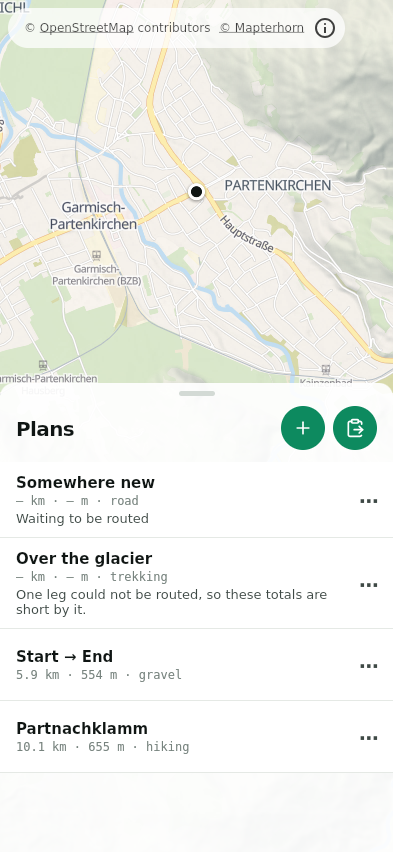
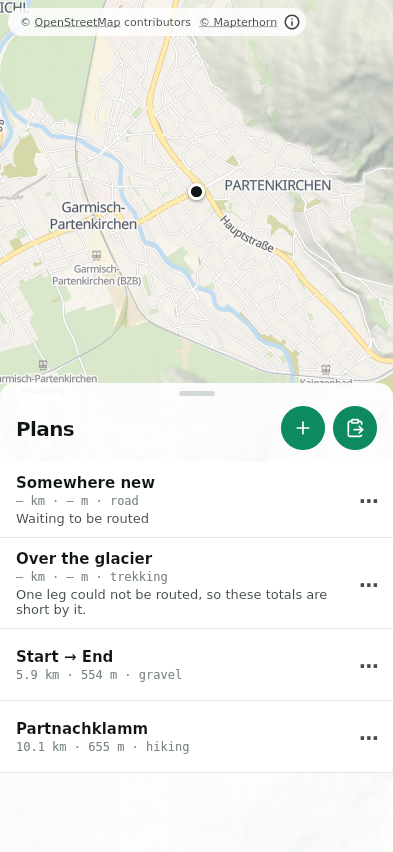
ui: the map's credit is a small pill, open once a launch, then an ⓘ
OpenStreetMap's attribution guidelines let a credit collapse on a pan or zoom, or after five seconds, as long as it
was shown at startup and an (i) still leads to it. So the first map of a launch shows it open, smaller, and every map
after that shows only the ⓘ. The controls under it move up to match.

Changed region(s): [[0.0305, 0.0, 0.8855, 0.061]]

diff --git a/app/ui/src/commonMain/kotlin/net/stho/tracks/ui/map/MapCredit.kt b/app/ui/src/commonMain/kotlin/net/stho/tracks/ui/map/MapCredit.kt
@@ -1,0 +1,102 @@
+package net.stho.tracks.ui.map
+
+import androidx.compose.animation.AnimatedVisibility
+import androidx.compose.animation.expandHorizontally
+import androidx.compose.animation.shrinkHorizontally
+import androidx.compose.foundation.Image
+import androidx.compose.foundation.background
+import androidx.compose.foundation.clickable
+import androidx.compose.foundation.layout.Box
+import androidx.compose.foundation.layout.Row
+import androidx.compose.foundation.layout.padding
+import androidx.compose.foundation.layout.size
+import androidx.compose.runtime.Composable
+import androidx.compose.runtime.LaunchedEffect
+import androidx.compose.runtime.derivedStateOf
+import androidx.compose.runtime.getValue
+import androidx.compose.runtime.mutableStateOf
+import androidx.compose.runtime.remember
+import androidx.compose.runtime.setValue
+import androidx.compose.ui.Alignment
+import androidx.compose.ui.Modifier
+import androidx.compose.ui.draw.clip
+import androidx.compose.ui.graphics.ColorFilter
+import androidx.compose.ui.input.pointer.pointerInput
+import androidx.compose.ui.semantics.Role
+import androidx.compose.ui.text.TextStyle
+import androidx.compose.ui.unit.dp
+import androidx.compose.ui.unit.sp
+import kotlin.time.Duration
+import kotlin.time.Duration.Companion.seconds
+import kotlinx.coroutines.delay
+import net.stho.tracks.ui.theme.Shapes
+import net.stho.tracks.ui.theme.Tokens
+import org.maplibre.compose.camera.CameraMoveReason
+import org.maplibre.compose.overlay.AttributionDefaults
+import org.maplibre.compose.overlay.AttributionLinks
+import org.maplibre.compose.overlay.MapOverlayScope
+import org.maplibre.compose.overlay.attributions
+
+/** Where a screen's own controls at the top of the map start: below the map's credit, open. */
+val UNDER_MAP_CREDIT = 44.dp
+
+/**
+ * The credit OpenStreetMap's licence asks for, as its attribution guidelines allow it on a small screen: open on the
+ * first map of a launch, collapsed to an ⓘ on the first pan or zoom or after [openFor], and an ⓘ on every map after.
+ * The ⓘ opens it again.
+ */
+object MapCredit {
+    /** Whether a map has shown the credit open yet, this launch. */
+    var shown = false
+
+    /** How long the first map shows it open unless the map is moved first. The screenshot scenes hold it open. */
+    var openFor: Duration = 5.seconds
+}
+
+private val CREDIT_TEXT = TextStyle(color = Tokens.ink2, fontSize = 11.sp)
+private val CREDIT_BUTTON = 28.dp
+private val CREDIT_ICON = 18.dp
+
+@Composable
+internal fun MapOverlayScope.MapCreditButton() {
+    var open by remember { mutableStateOf(!MapCredit.shown) }
+    val map = mapState
+
+    LaunchedEffect(Unit) {
+        if (!open) return@LaunchedEffect
+        MapCredit.shown = true
+        delay(MapCredit.openFor)
+        open = false
+    }
+    LaunchedEffect(map.isCameraMoving, map.cameraMoveReason) {
+        if (map.isCameraMoving && map.cameraMoveReason == CameraMoveReason.GESTURE) open = false
+    }
+
+    val mapStyle = style
+    val attributions by remember(mapStyle) { derivedStateOf { mapStyle.attributions() } }
+    if (attributions.isEmpty()) return
+
+    Row(
+        Modifier
+            .background(Tokens.glass, Shapes.pill)
+            .clip(Shapes.pill)
+            // Without this, a drag across the credit pans the map underneath it.
+            .pointerInput(Unit) {},
+        verticalAlignment = Alignment.CenterVertically,
+    ) {
+        AnimatedVisibility(open, enter = expandHorizontally(), exit = shrinkHorizontally()) {
+            AttributionLinks(attributions, Modifier.padding(start = 12.dp, top = 6.dp, bottom = 6.dp), textStyle = CREDIT_TEXT)
+        }
+        Box(
+            Modifier.size(CREDIT_BUTTON).clip(Shapes.pill).clickable(role = Role.Button) { open = !open },
+            contentAlignment = Alignment.Center,
+        ) {
+            Image(
+                painter = AttributionDefaults.icon(),
+                contentDescription = AttributionDefaults.contentDescription(),
+                modifier = Modifier.size(CREDIT_ICON),
+                colorFilter = ColorFilter.tint(Tokens.ink2),
+            )
+        }
+    }
+}

diff --git a/app/ui/src/commonMain/kotlin/net/stho/tracks/ui/plans/PlanEditorScreen.kt b/app/ui/src/commonMain/kotlin/net/stho/tracks/ui/plans/PlanEditorScreen.kt
@@ -68,6 +68,7 @@ import net.stho.tracks.ui.map.MapCamera
 import net.stho.tracks.ui.map.MapStyle
 import net.stho.tracks.ui.map.PlanDrawing
 import net.stho.tracks.ui.map.TracksMap
+import net.stho.tracks.ui.map.UNDER_MAP_CREDIT
 import net.stho.tracks.ui.map.WaypointMark
 import net.stho.tracks.sensors.Fix
 import net.stho.tracks.ui.theme.IconButton
@@ -190,7 +191,7 @@ fun PlanEditorScreen(
                 camera = if (frame.isEmpty()) {
                     MapCamera.Centre(zoom = 13.0, inset = PaddingValues(bottom = firstCovered ?: 0.dp))
                 } else {
-                    MapCamera.Overview(frame, inset = PaddingValues(start = 32.dp, top = 112.dp, end = 32.dp, bottom = covered + 32.dp))
+                    MapCamera.Overview(frame, inset = PaddingValues(start = 32.dp, top = UNDER_MAP_CREDIT + 48.dp, end = 32.dp, bottom = covered + 32.dp))
                 },
                 modifier = Modifier.fillMaxSize(),
                 fix = fix,
@@ -218,7 +219,7 @@ fun PlanEditorScreen(
         // its index, they wait for it to close.
         if (dialog == null) {
             Row(
-                Modifier.align(Alignment.TopEnd).windowInsetsPadding(WindowInsets.safeDrawing).padding(end = 16.dp, top = 64.dp),
+                Modifier.align(Alignment.TopEnd).windowInsetsPadding(WindowInsets.safeDrawing).padding(end = 16.dp, top = UNDER_MAP_CREDIT),
                 horizontalArrangement = Arrangement.spacedBy(8.dp),
             ) {
                 Box(Modifier.size(44.dp)) { if (state.canUndo) IconButton(Icons.Undo, "Undo", editor::undo) }

diff --git a/app/ui/src/commonMain/kotlin/net/stho/tracks/ui/plans/PlanPreview.kt b/app/ui/src/commonMain/kotlin/net/stho/tracks/ui/plans/PlanPreview.kt
@@ -34,6 +34,7 @@ import net.stho.tracks.ui.map.LegLine
 import net.stho.tracks.ui.map.LegState
 import net.stho.tracks.ui.map.MapCamera
 import net.stho.tracks.ui.map.PlanDrawing
+import net.stho.tracks.ui.map.UNDER_MAP_CREDIT
 import net.stho.tracks.ui.map.WaypointMark
 import net.stho.tracks.ui.map.MapStyle
 import net.stho.tracks.ui.map.TracksMap
@@ -96,7 +97,7 @@ fun PlanPreview(
             TracksMap(
                 style = it,
                 // Framed clear of the minimised sheet: open, the sheet is the thing being looked at.
-                camera = MapCamera.Overview(frame, inset = PaddingValues(start = 32.dp, top = 128.dp, end = 32.dp, bottom = covered + 32.dp)),
+                camera = MapCamera.Overview(frame, inset = PaddingValues(start = 32.dp, top = UNDER_MAP_CREDIT + 64.dp, end = 32.dp, bottom = covered + 32.dp)),
                 modifier = Modifier.fillMaxSize(),
                 drawing = drawing,
                 fix = fix,
@@ -109,7 +110,7 @@ fun PlanPreview(
             onClick = onBack,
             primary = false,
             // Under the map's attribution, which holds the top edge.
-            modifier = Modifier.align(Alignment.TopStart).windowInsetsPadding(WindowInsets.safeDrawing).padding(start = 16.dp, top = 64.dp),
+            modifier = Modifier.align(Alignment.TopStart).windowInsetsPadding(WindowInsets.safeDrawing).padding(start = 16.dp, top = UNDER_MAP_CREDIT),
         )
 
         SnapSheet(

diff --git a/app/desktopApp/src/main/kotlin/net/stho/tracks/desktop/Screenshots.kt b/app/desktopApp/src/main/kotlin/net/stho/tracks/desktop/Screenshots.kt
@@ -29,6 +29,7 @@ import kotlin.math.pow
 import kotlin.math.sin
 import kotlin.math.sinh
 import kotlin.system.exitProcess
+import kotlin.time.Duration
 import kotlinx.coroutines.Dispatchers
 import kotlinx.coroutines.delay
 import kotlinx.coroutines.runBlocking
@@ -55,6 +56,7 @@ import androidx.compose.foundation.layout.padding
 import okio.FileSystem
 import okio.Path.Companion.toPath
 import net.stho.tracks.ui.map.DesktopMapHost
+import net.stho.tracks.ui.map.MapCredit
 import net.stho.tracks.ui.map.MapCamera
 import net.stho.tracks.ui.map.MapStyle
 import net.stho.tracks.ui.map.Orientation
@@ -145,6 +147,9 @@ private fun render(scene: Scene, update: Boolean, record: Boolean) {
     // A cache of its own, so nothing a live run downloaded can stand in for a missing fixture.
     val cache = Files.createTempDirectory("tracks-screenshots").resolve("cache.db").toString()
     configureDesktopMap(cacheFile = cache, rewriteUrl = server::rewrite)
+
+    // The map's credit, held still: open on home, the first map of a launch, and the ⓘ it collapses to everywhere else.
+    if (scene.screen == Screen.Home) MapCredit.openFor = Duration.INFINITE else MapCredit.shown = true
 
     val ride = runBlocking { bundledRide() }
     val fix = ride.fixes[scene.second].copy(epochMillis = System.currentTimeMillis())

diff --git a/app/ui/src/commonMain/kotlin/net/stho/tracks/ui/map/TracksMap.kt b/app/ui/src/commonMain/kotlin/net/stho/tracks/ui/map/TracksMap.kt
@@ -71,7 +71,6 @@ import org.maplibre.compose.map.MapEvent
 import org.maplibre.compose.map.MapState
 import org.maplibre.compose.map.MaplibreMap
 import org.maplibre.compose.map.rememberMapState
-import org.maplibre.compose.overlay.ExpandingAttributionButton
 import org.maplibre.compose.sources.GeoJsonData
 import org.maplibre.compose.sources.rememberGeoJsonSource
 import org.maplibre.compose.style.BaseStyle
@@ -541,9 +540,9 @@ private fun MapLibreMap(
                 }
             },
         ) {
-            // Only the attribution OpenStreetMap's licence asks for. The default overlay's logo and compass collide with
-            // the app's own controls, and its scale bar is in feet.
-            ExpandingAttributionButton()
+            // Only the credit OpenStreetMap's licence asks for. The default overlay's logo and compass collide with the
+            // app's own controls, and its scale bar is in feet.
+            MapCreditButton()
         }
 
         drawing?.takeIf { it.editable }?.let { WaypointHandles(state, it.waypoints, onWaypointTap, onWaypointDrag) }

diff --git a/app/ui/src/commonMain/kotlin/net/stho/tracks/ui/TracksApp.kt b/app/ui/src/commonMain/kotlin/net/stho/tracks/ui/TracksApp.kt
@@ -32,6 +32,7 @@ import net.stho.tracks.store.StoredPlan
 import net.stho.tracks.ui.harness.MapHarness
 import net.stho.tracks.ui.offline.OfflineData
 import net.stho.tracks.ui.map.MapStyle
+import net.stho.tracks.ui.map.UNDER_MAP_CREDIT
 import net.stho.tracks.ui.plans.HomeScreen
 import net.stho.tracks.ui.plans.PlanEditorScreen
 import net.stho.tracks.ui.plans.PlanPreview
@@ -140,7 +141,7 @@ fun TracksApp(
                 onClick = { riding = false },
                 primary = false,
                 // Under the map's attribution, which holds the top edge.
-                modifier = Modifier.align(Alignment.TopStart).windowInsetsPadding(WindowInsets.safeDrawing).padding(start = 16.dp, top = 64.dp),
+                modifier = Modifier.align(Alignment.TopStart).windowInsetsPadding(WindowInsets.safeDrawing).padding(start = 16.dp, top = UNDER_MAP_CREDIT),
             )
         }
 

diff --git a/app/ui/src/commonMain/kotlin/net/stho/tracks/ui/theme/SnapSheet.kt b/app/ui/src/commonMain/kotlin/net/stho/tracks/ui/theme/SnapSheet.kt
@@ -42,9 +42,10 @@ import androidx.compose.ui.unit.IntOffset
 import androidx.compose.ui.unit.dp
 import kotlin.math.roundToInt
 import kotlinx.coroutines.launch
+import net.stho.tracks.ui.map.UNDER_MAP_CREDIT
 
 /** What the open sheet leaves above it: the map's attribution and the screen's own buttons. */
-private val TOP_CLEARANCE = 120.dp
+private val TOP_CLEARANCE = UNDER_MAP_CREDIT + 56.dp
 
 /**
  * A sheet with two states and nothing between them: minimised to its [header], or open to the top of the screen with
